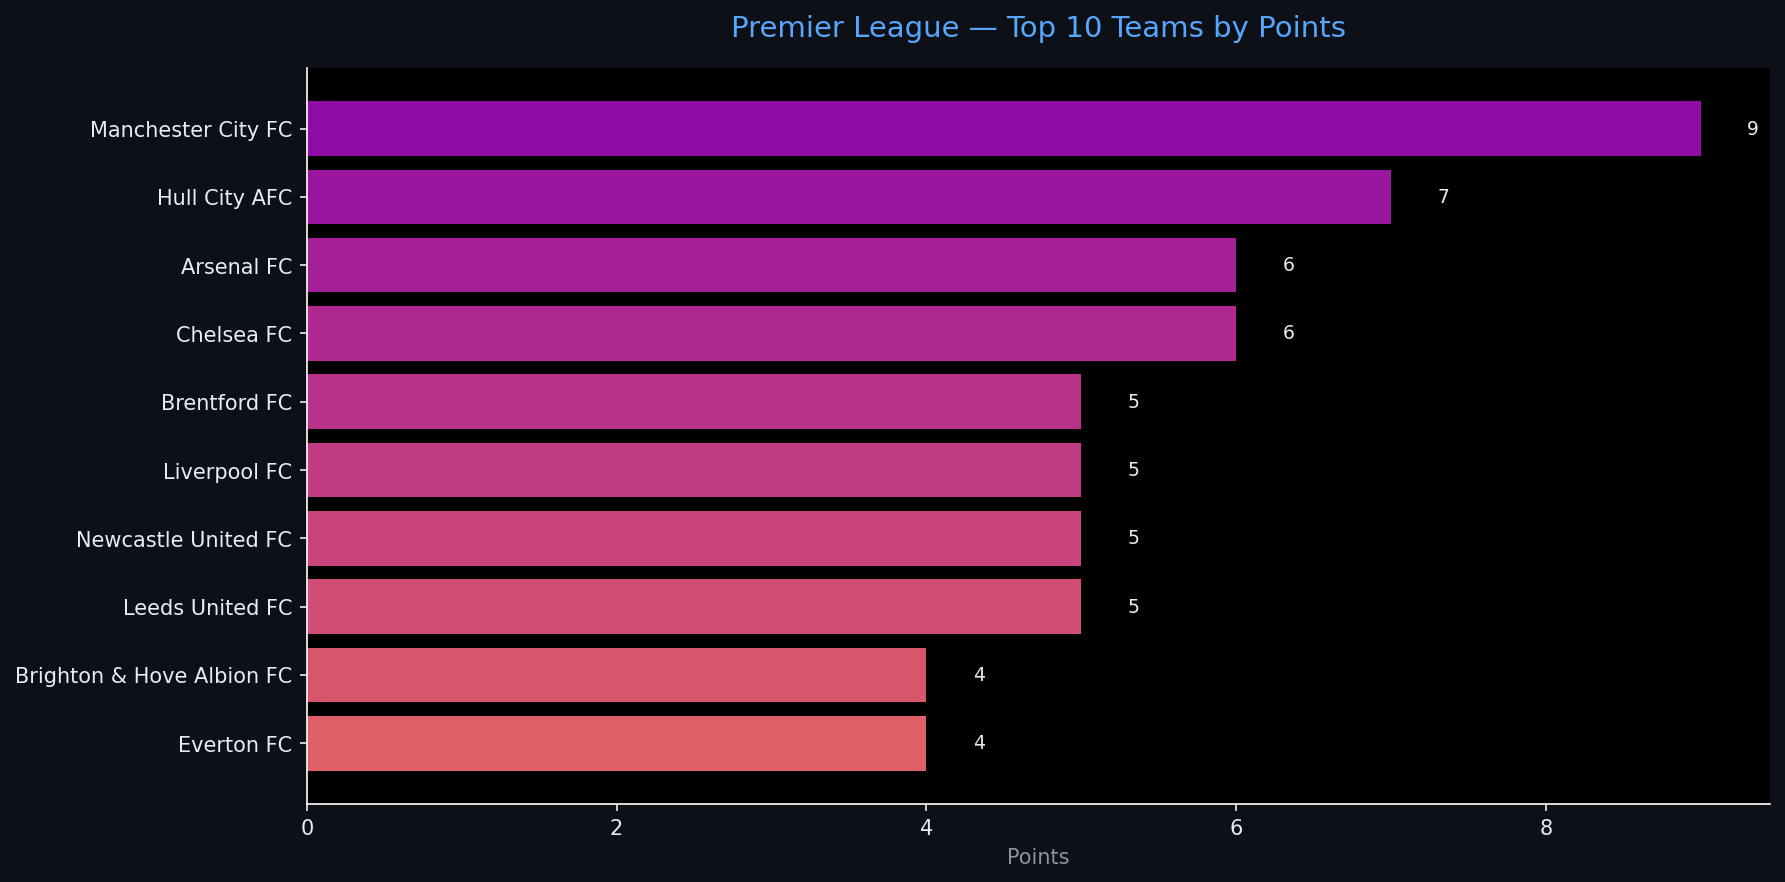
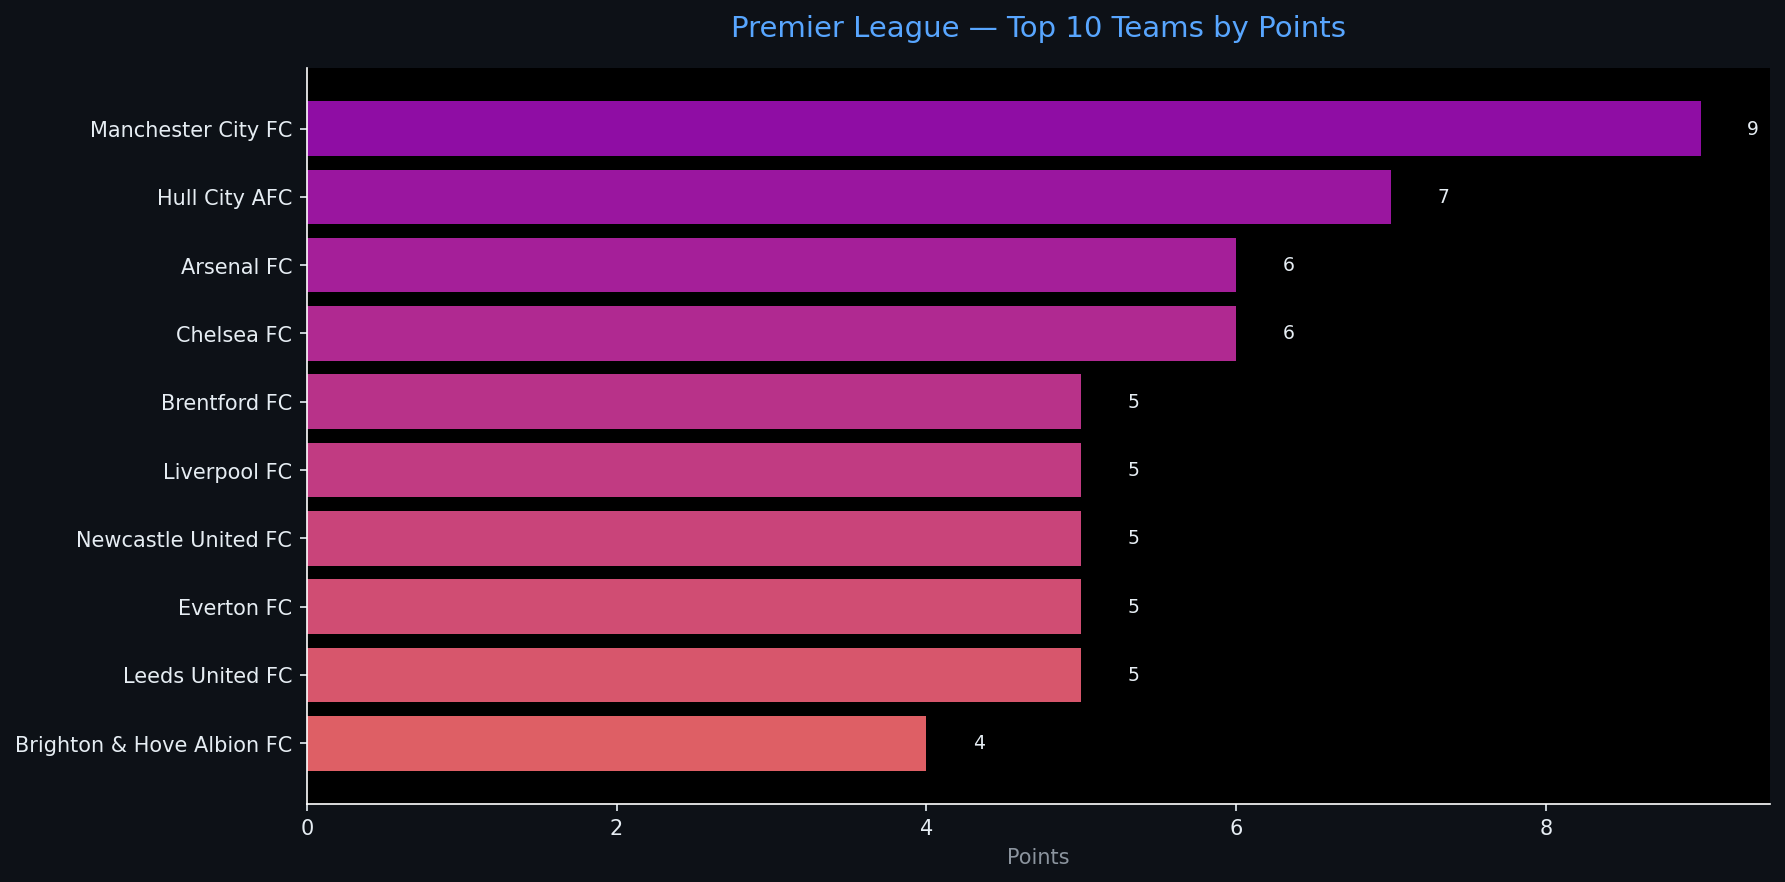
Automated ETL data update: 2026-09-06 13:19

diff --git a/reports/pipeline_report.html b/reports/pipeline_report.html
@@ -4,7 +4,7 @@
 <head>
     <meta charset="UTF-8">
     <meta name="viewport" content="width=device-width, initial-scale=1.0">
-    <title>Sports Data Pipeline Report — 2026-09-06 08:16</title>
+    <title>Sports Data Pipeline Report — 2026-09-06 13:19</title>
     <style>
         body { font-family: 'Segoe UI', sans-serif; background: #0d1117; color: #e6edf3; margin: 0; padding: 2rem; }
         h1   { color: #58a6ff; border-bottom: 1px solid #30363d; padding-bottom: 0.5rem; }
@@ -20,7 +20,7 @@
 </head>
 <body>
     <h1>⚽ Sports Data Pipeline — Automated Report</h1>
-    <p class="meta">Generated: 2026-09-06 08:16 UTC &nbsp;|&nbsp; Sport: <strong>football</strong> &nbsp;|&nbsp; Rows: <strong>20</strong></p>
+    <p class="meta">Generated: 2026-09-06 13:19 UTC &nbsp;|&nbsp; Sport: <strong>football</strong> &nbsp;|&nbsp; Rows: <strong>20</strong></p>
     <span class="badge">Pipeline v1.0.0</span>
     <h2>📊 Data Table</h2>
     <table class="dataframe data-table">
@@ -149,6 +149,21 @@
     </tr>
     <tr>
       <td>8</td>
+      <td>Everton FC</td>
+      <td>3</td>
+      <td>5</td>
+      <td>1</td>
+      <td>2</td>
+      <td>0</td>
+      <td>3</td>
+      <td>1</td>
+      <td>0.333</td>
+      <td>1.667</td>
+      <td>0.900</td>
+      <td>NaN</td>
+    </tr>
+    <tr>
+      <td>9</td>
       <td>Leeds United FC</td>
       <td>3</td>
       <td>5</td>
@@ -163,7 +178,7 @@
       <td>NaN</td>
     </tr>
     <tr>
-      <td>9</td>
+      <td>10</td>
       <td>Brighton &amp; Hove Albion FC</td>
       <td>3</td>
       <td>4</td>
@@ -178,22 +193,22 @@
       <td>NaN</td>
     </tr>
     <tr>
-      <td>10</td>
-      <td>Everton FC</td>
-      <td>2</td>
+      <td>11</td>
+      <td>Manchester United FC</td>
+      <td>3</td>
       <td>4</td>
       <td>1</td>
       <td>1</td>
-      <td>0</td>
-      <td>3</td>
       <td>1</td>
-      <td>0.500</td>
-      <td>2.000</td>
-      <td>0.900</td>
+      <td>5</td>
+      <td>4</td>
+      <td>0.333</td>
+      <td>1.333</td>
+      <td>0.610</td>
       <td>NaN</td>
     </tr>
     <tr>
-      <td>11</td>
+      <td>12</td>
       <td>Sunderland AFC</td>
       <td>3</td>
       <td>4</td>
@@ -205,21 +220,6 @@
       <td>0.333</td>
       <td>1.333</td>
       <td>0.500</td>
-      <td>NaN</td>
-    </tr>
-    <tr>
-      <td>12</td>
-      <td>Manchester United FC</td>
-      <td>2</td>
-      <td>3</td>
-      <td>1</td>
-      <td>0</td>
-      <td>1</td>
-      <td>5</td>
-      <td>4</td>
-      <td>0.500</td>
-      <td>1.500</td>
-      <td>0.610</td>
       <td>NaN</td>
     </tr>
     <tr>
@@ -362,7 +362,7 @@
         
         <tr><td>Null Values</td><td>89</td></tr>
         
-        <tr><td>Run Timestamp (UTC)</td><td>2026-09-06T08:16:05.097912</td></tr>
+        <tr><td>Run Timestamp (UTC)</td><td>2026-09-06T13:19:49.998711</td></tr>
         
         <tr><td>ML Features Ready</td><td>False</td></tr>
         
